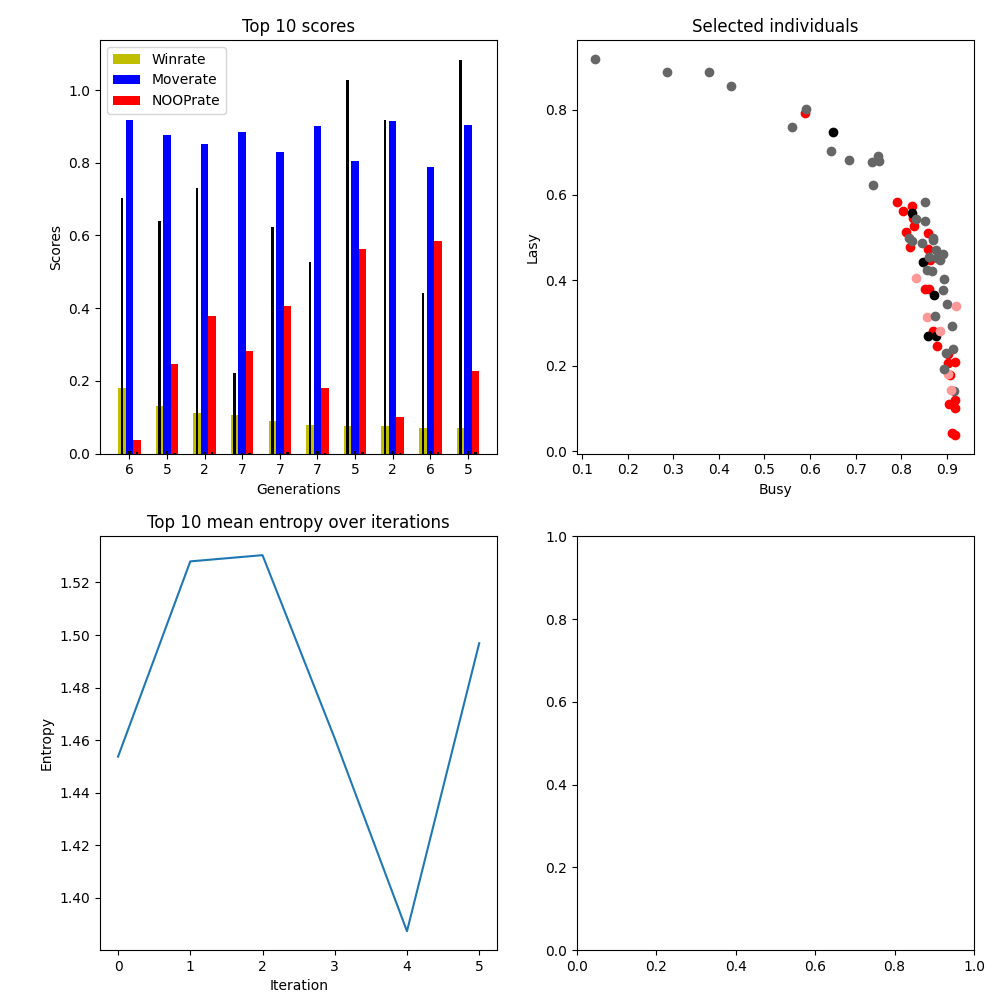
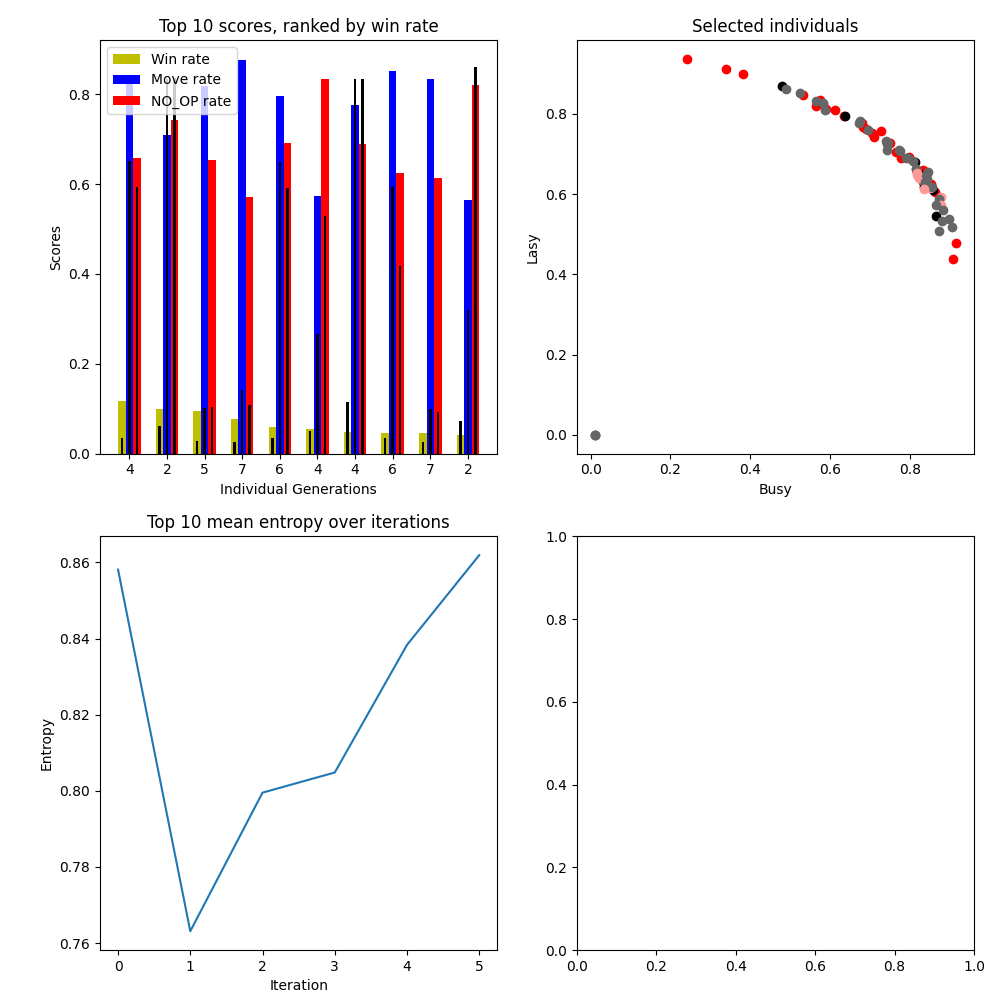
3-17

diff --git a/evolution_server.py b/evolution_server.py
@@ -26,7 +26,7 @@ import socket
 class EvolutionServer:
 
     def __init__(self, ID, env_id='Pong-ram-v0', collector_ip=None, traj_length=128, batch_size=1, max_train=10,
-                 early_stop=7, round_length=200, eval_length=5000, subprocess=True, mutation_rate=0.7):
+                 early_stop=7, round_length=200, min_eval=5000, subprocess=True, mutation_rate=0.7):
         if collector_ip is None:
             self.ip = socket.gethostbyname(socket.gethostname())
         else:
@@ -170,7 +170,7 @@ class EvolutionServer:
                 gaussian_noise = np.random.normal(loc=0, scale=0.2, size=q['r'].shape)
                 q['r'] = np.clip(q['r'] * (1 + gaussian_noise), 0, np.inf)
 
-    def eval(self, player: Individual, max_frame):
+    def eval(self, player: Individual, min_frame):
         r = {
             'game_reward': 0.0,
             'avg_length': 0.0,
@@ -184,11 +184,11 @@ class EvolutionServer:
         n_games = 0
         actions = [0] * 6
         dist = np.zeros((self.action_dim,), dtype=np.float32)
-        while frame_count < max_frame:
+        while frame_count < min_frame:
             done = False
             observation = self.util.preprocess(self.env.reset())
             observation = np.concatenate([observation, observation])
-            while not done and frame_count < max_frame:
+            while not done:
                 action, dist_ = player.pi.policy.get_action(observation, return_dist=True, eval=True)
                 dist += dist_
                 actions[action] += 1
@@ -212,11 +212,11 @@ class EvolutionServer:
                 n_games += 1
 
         print(actions)
-        r['avg_length'] = max_frame / float(n_games + 1)
+        r['avg_length'] = frame_count / float(n_games + 1)
         r['win_rate'] = (np.abs(r['game_reward'] - r['total_punition'])) / float(np.abs(r['game_reward'] - 2 * r['total_punition']))
-        r['no_op_rate'] = r['no_op_rate'] / float(max_frame)
-        r['move_rate'] = r['move_rate'] / float(max_frame)
-        dist /= float(max_frame)
+        r['no_op_rate'] = r['no_op_rate'] / float(frame_count)
+        r['move_rate'] = r['move_rate'] / float(frame_count)
+        dist /= float(frame_count)
         r['entropy'] = -np.sum(np.log(dist+1e-8) * dist)
         return r
 

diff --git a/plotting.py b/plotting.py
@@ -192,9 +192,9 @@ class PlotterV2:
             data[0][i] = self.pop.individuals[i].behavior_stats['win_rate']
             data[1][i] = self.pop.individuals[i].behavior_stats['move_rate']
             data[2][i] = self.pop.individuals[i].behavior_stats['no_op_rate']
-            data[3][i] = self.pop.individuals[i].reward_weight[0] * 0.01
-            data[4][i] = self.pop.individuals[i].reward_weight[1]
-            data[5][i] = self.pop.individuals[i].reward_weight[2]
+            data[3][i] = self.pop.individuals[i].reward_weight[0] * 0.1
+            data[4][i] = self.pop.individuals[i].reward_weight[1] * 0.1
+            data[5][i] = self.pop.individuals[i].reward_weight[2] * 0.1
             ent += self.pop.individuals[i].behavior_stats['entropy']
             data[6][i] = self.pop.individuals[i].gen
         self.mean_ent_hist.append(ent/float(self.top))

diff --git a/population.py b/population.py
@@ -42,9 +42,8 @@ class Individual:
 class LightIndividual:
     def __init__(self, goal_dim, generation=1):
 
-        lows = [1, 0, 0]
-        highs = [10, 1, 1]
-        self.reward_weight = np.random.uniform(lows, highs, size=(goal_dim,))
+        self.reward_weight = np.random.lognormal(-1, 2, (goal_dim,))
+        self.reward_weight = np.exp(-self.reward_weight)
         self.behavior_stats = {}
         self.gen = generation
         self.model_weights = None
